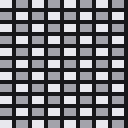
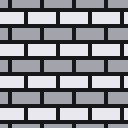
docs: make the tiling demo truly seamless
The generated brick's 3px course phase does not divide 32px, so the 2x2 preview lost a mortar line at the seam. Replace it with an authored 32x32 grid whose periods divide evenly and whose edge phase makes opposite edges equal; tile reports h=v=c=0.000000.

Task: tile-v3

diff --git a/docs/assets/showcase/README.md b/docs/assets/showcase/README.md
@@ -5,7 +5,7 @@ No external image tools were used. All procedural sources use fixed seeds, so
 the full set below is reproducible end to end. The showcase sources are
 deliberately chosen so each effect stays visible at README display size:
 high-detail noise for pixelize, a 64-band gradient for quantize, and a
-coarse brick for tiling.
+hand-built seamless brick for tiling.
 
 Conventions used in the commands: `OUT=docs/assets/showcase`,
 `SCRATCH=/tmp/showcase` (throwaway intermediates only; nothing is read from
@@ -22,7 +22,8 @@ crisp.
 | `quantize-before.png` | 256×256 | The 64-band gradient, ×4 nearest upscale (the "before") |
 | `quantize-after.png` | 256×256 | Same gradient through `quantize --colors 8`, then ×4 (the "after") |
 | `variant-iron.png` / `variant-gold.png` / `variant-wood.png` / `variant-crystal.png` | 64×64 each | One 16px spots swatch recolored into four builtin materials, ×4 nearest |
-| `tile-pattern.png` | 128×128 | Brick swatch (32px source, ×4 nearest) used as the tile source |
+| `tile-source.grid` | 32×32 ASCII grid | Hand-built running-bond brick: the tile source |
+| `tile-pattern.png` | 128×128 | The 32px hand-built source, ×4 nearest (the tile source) |
 | `tile-preview-2x2.png` | 256×256 | 2×2 repeat preview of the 32px source (64px preview, ×4 nearest) |
 | `anim/frame-1.grid` … `anim/frame-4.grid` | 16×16 ASCII grids | Hand-authored "central glow pulse" frames |
 | `anim-sheet.png` | 64×256 | The four frames packed vertically (16×64 sheet), ×4 nearest |
@@ -87,22 +88,45 @@ done
 
 ## 4. Tile pattern and 2×2 preview
 
-Base: `brick`, 32px, seed 5, palette `stone` — a coarse 3-color brick whose
-mortar lines stay legible at small sizes. Displayed ×4 nearest (128px); the
-2×2 preview is tiled from the same 32px source (64px) and shown ×4 (256px).
-Seam analysis of the source (seam=h:0.000000 v:0.263111 c:0.508674
-repeat=1.000000) is printed by the `tile` call itself.
+Source: `tile-source.grid`, a hand-built 32×32 `[grid]` brick in running
+bond, using the stone trio — mortar `#17171A`, even courses `#A3A3AB`, odd
+courses `#E8E8EE`. Every period divides 32 so the source tiles natively,
+with no edge-match or brightness-match corrections:
+
+- Vertical: 3px brick + 1px mortar × 8 courses (32 ÷ 4 = 8). One course
+  straddles the top/bottom edge (rows 31, 0, 1), so the top and bottom
+  lines are byte-equal and the 4px rhythm continues across the boundary.
+- Horizontal: 7px brick + 1px mortar, period 8 (32 ÷ 8 = 4 repeats per
+  row); odd courses shift by 4. Mortar sits at `x % 8 == 2` on even
+  courses and `x % 8 == 6` on odd courses, so both edges fall mid-brick
+  and the left and right lines are byte-equal; the 7+1 rhythm continues
+  across the boundary (5 + 2 bricks on even courses, 1 + 6 on odd).
+
+Rendered with `render` to 32×32, displayed ×4 nearest (128px); the 2×2
+preview is tiled from the same 32px source (64px) and shown ×4 (256px).
+Seam analysis of the source is printed by the `tile` call itself:
+seam=h:0.000000 v:0.000000 c:0.000000, tileFriendly=true. (The earlier
+`generate brick` source is retired: its 2px-brick + 1px-mortar rhythm has
+period 3, and 32 is not divisible by 3, so the vertical join dropped a
+mortar line. Edge-matching could zero the score but could not restore the
+rhythm, so the source was redrawn by hand instead.)
 
 ```sh
-mc-asset generate brick --size 32 --seed 5 --palette stone \
-  --output $SCRATCH/brick32.png --source $SCRATCH/brick32.mcpx
-mc-asset transform $SCRATCH/brick32.png --resize 128x128 --resize-mode nearest \
+mc-asset render $OUT/tile-source.grid \
+  --output $SCRATCH/tile32.png --source $SCRATCH/tile32.mcpx
+mc-asset tile $SCRATCH/tile32.png
+mc-asset transform $SCRATCH/tile32.png --resize 128x128 --resize-mode nearest \
   --output $OUT/tile-pattern.png
-mc-asset tile $SCRATCH/brick32.png --preview 2x2 \
-  --output $SCRATCH/brick-preview64.png
-mc-asset transform $SCRATCH/brick-preview64.png --resize 256x256 --resize-mode nearest \
+mc-asset tile $SCRATCH/tile32.png --preview 2x2 \
+  --output $SCRATCH/tile-preview64.png
+mc-asset transform $SCRATCH/tile-preview64.png --resize 256x256 --resize-mode nearest \
   --output $OUT/tile-preview-2x2.png
 ```
+
+Rhythm check (the acceptance test for the join): ASCII-read the 64px
+preview and confirm the mortar lines keep their 4px rhythm across the
+tile boundary at rows 31/32 — three brick rows, one mortar row, no
+double-height brick band where the tiles meet.
 
 ## 5. Animation: glow pulse sheet
 
